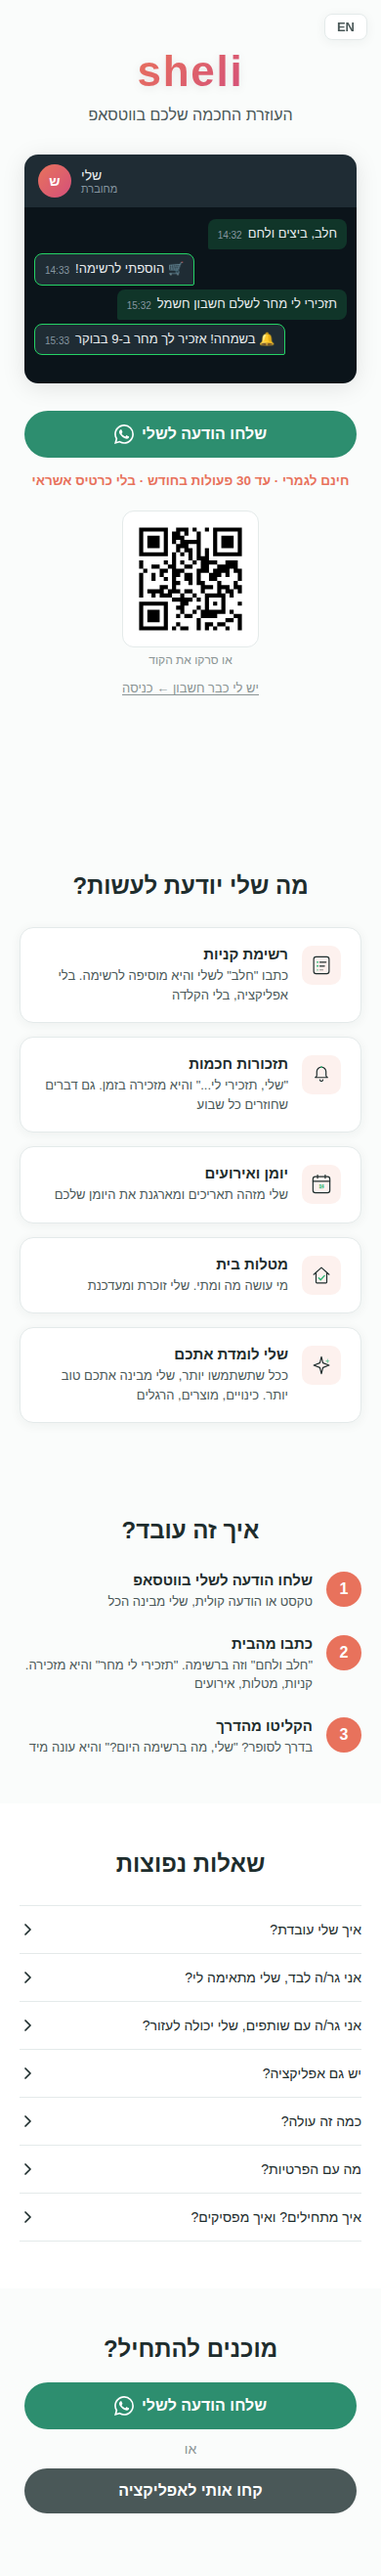
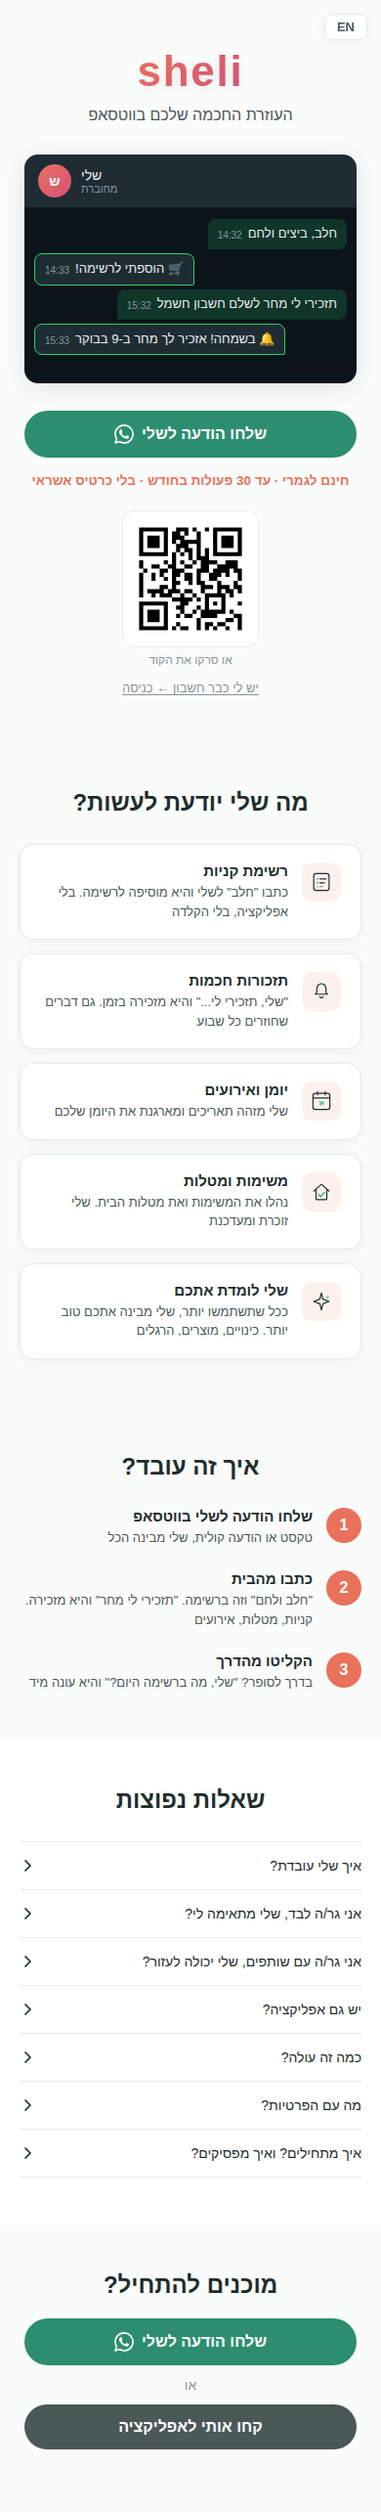
fix: remove hero min-height that caused blank gap before features
The 100dvh min-height forced the hero to fill the viewport even when
content was shorter, leaving a visible blank gap. Removed it so sections
flow naturally.

https://claude.ai/code/session_01Q1JpJbQf1Zpp2Q6Tpo9kpg

diff --git a/src/styles/landing.css b/src/styles/landing.css
@@ -36,11 +36,10 @@
 /* ─── Hero ─── */
 
 .landing-hero {
-  min-height: 100dvh;
   display: flex;
   flex-direction: column;
   align-items: center;
-  padding: 48px 20px 24px;
+  padding: 48px 20px 48px;
 }
 
 .landing-wordmark {
